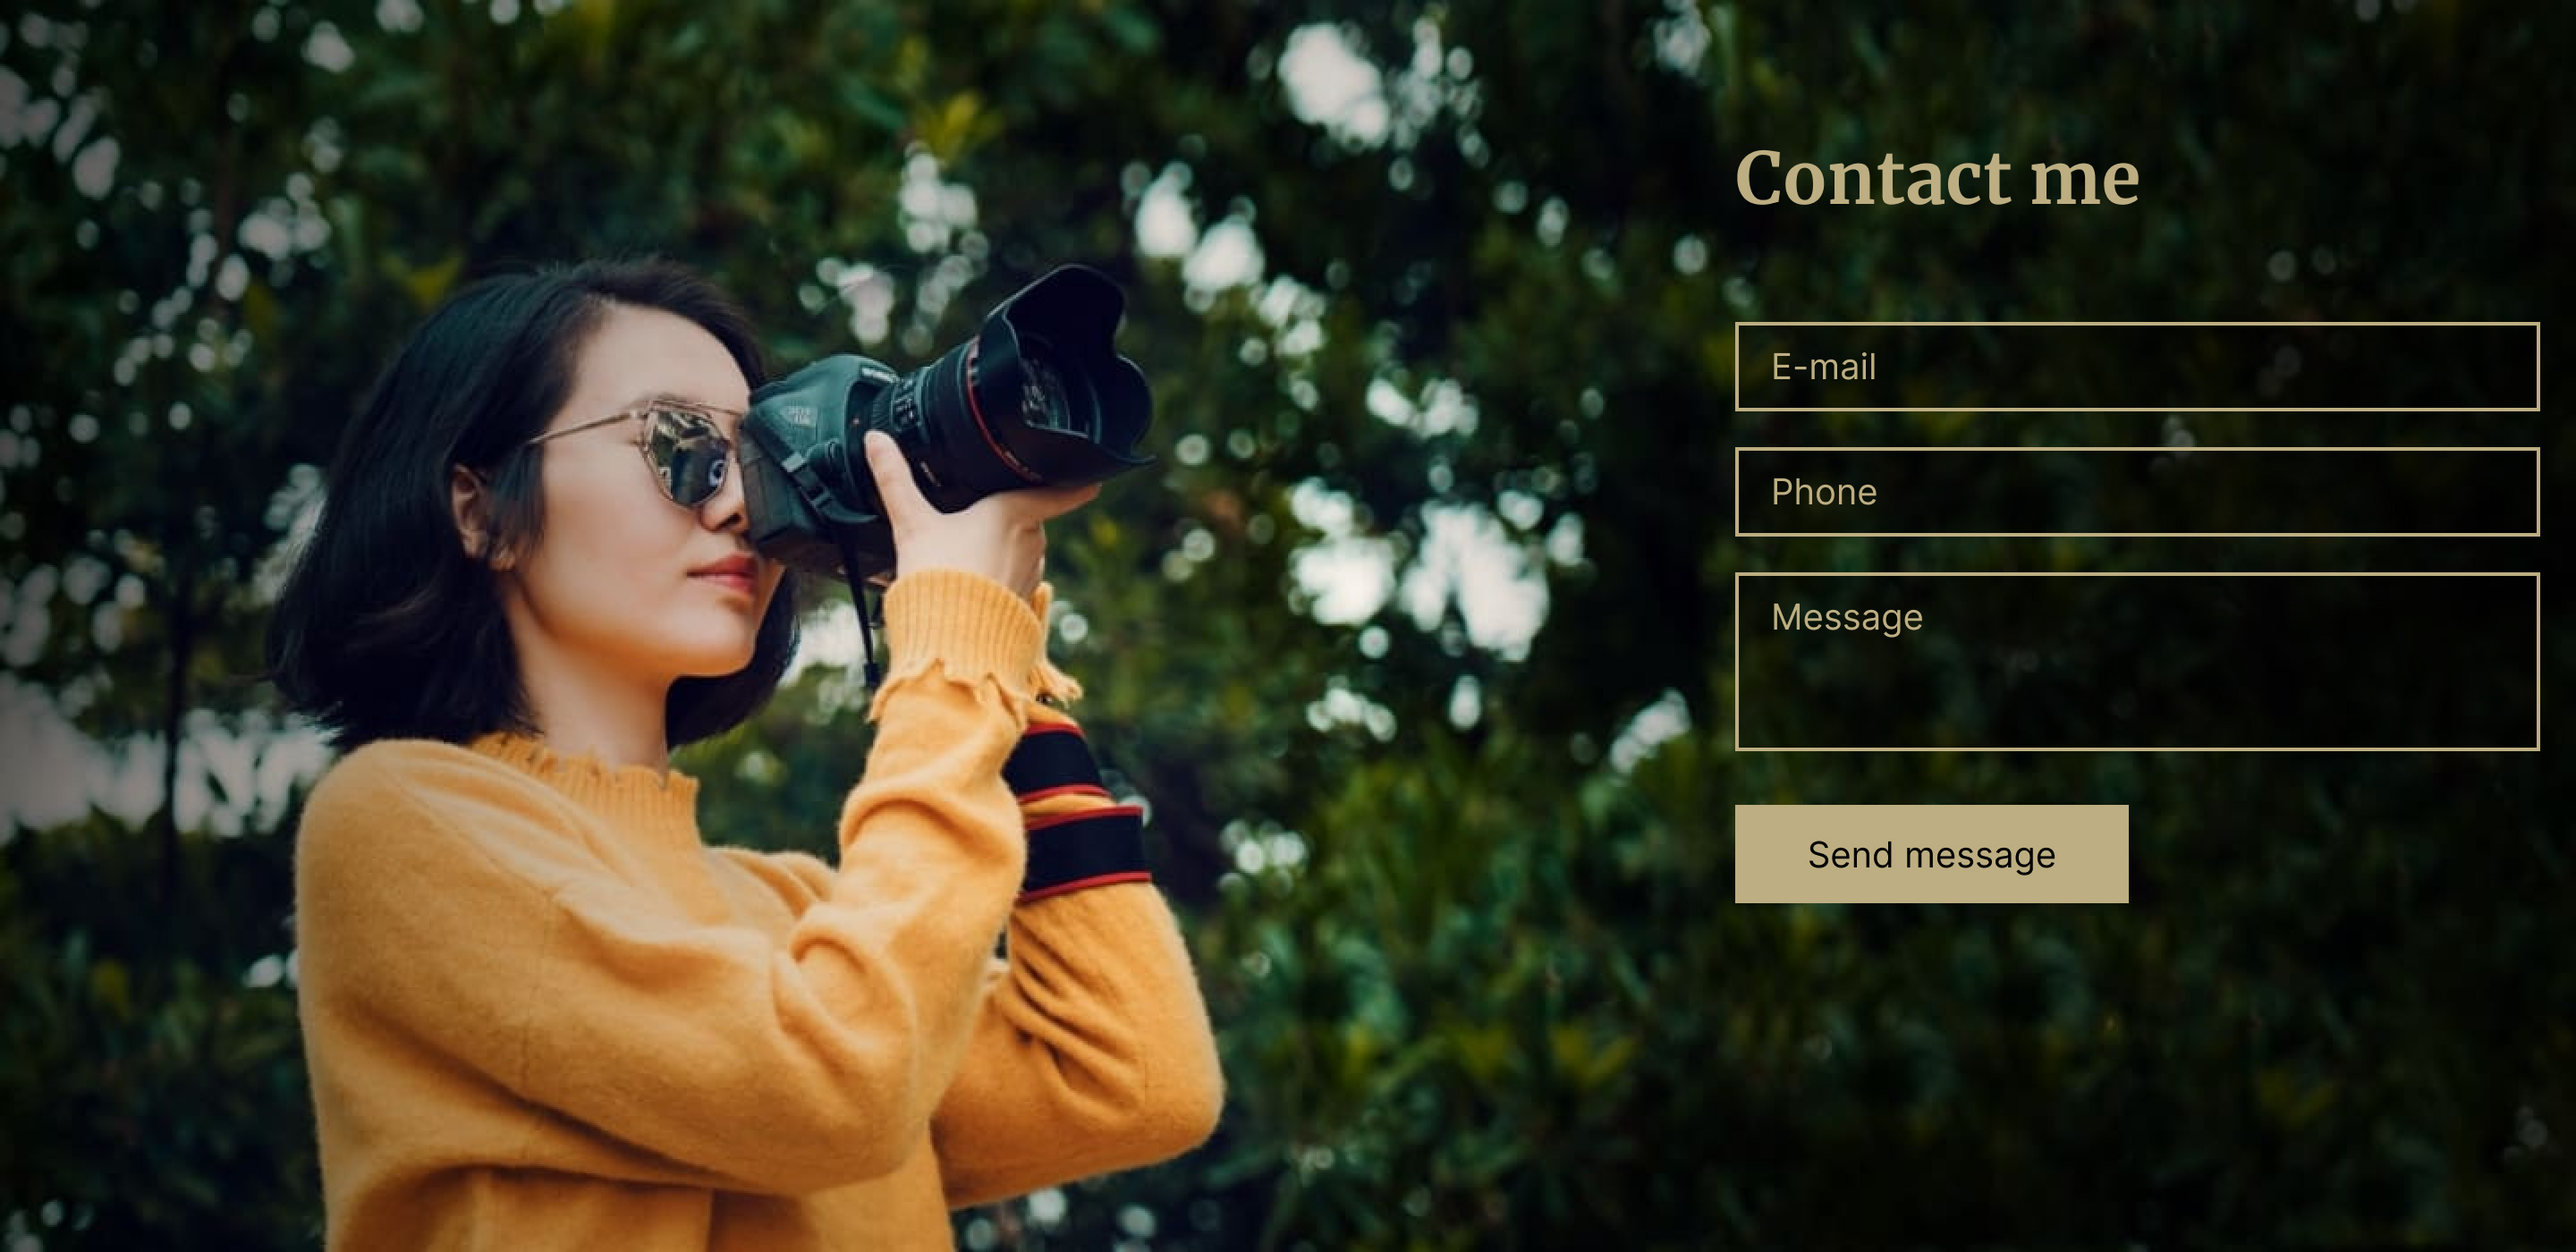
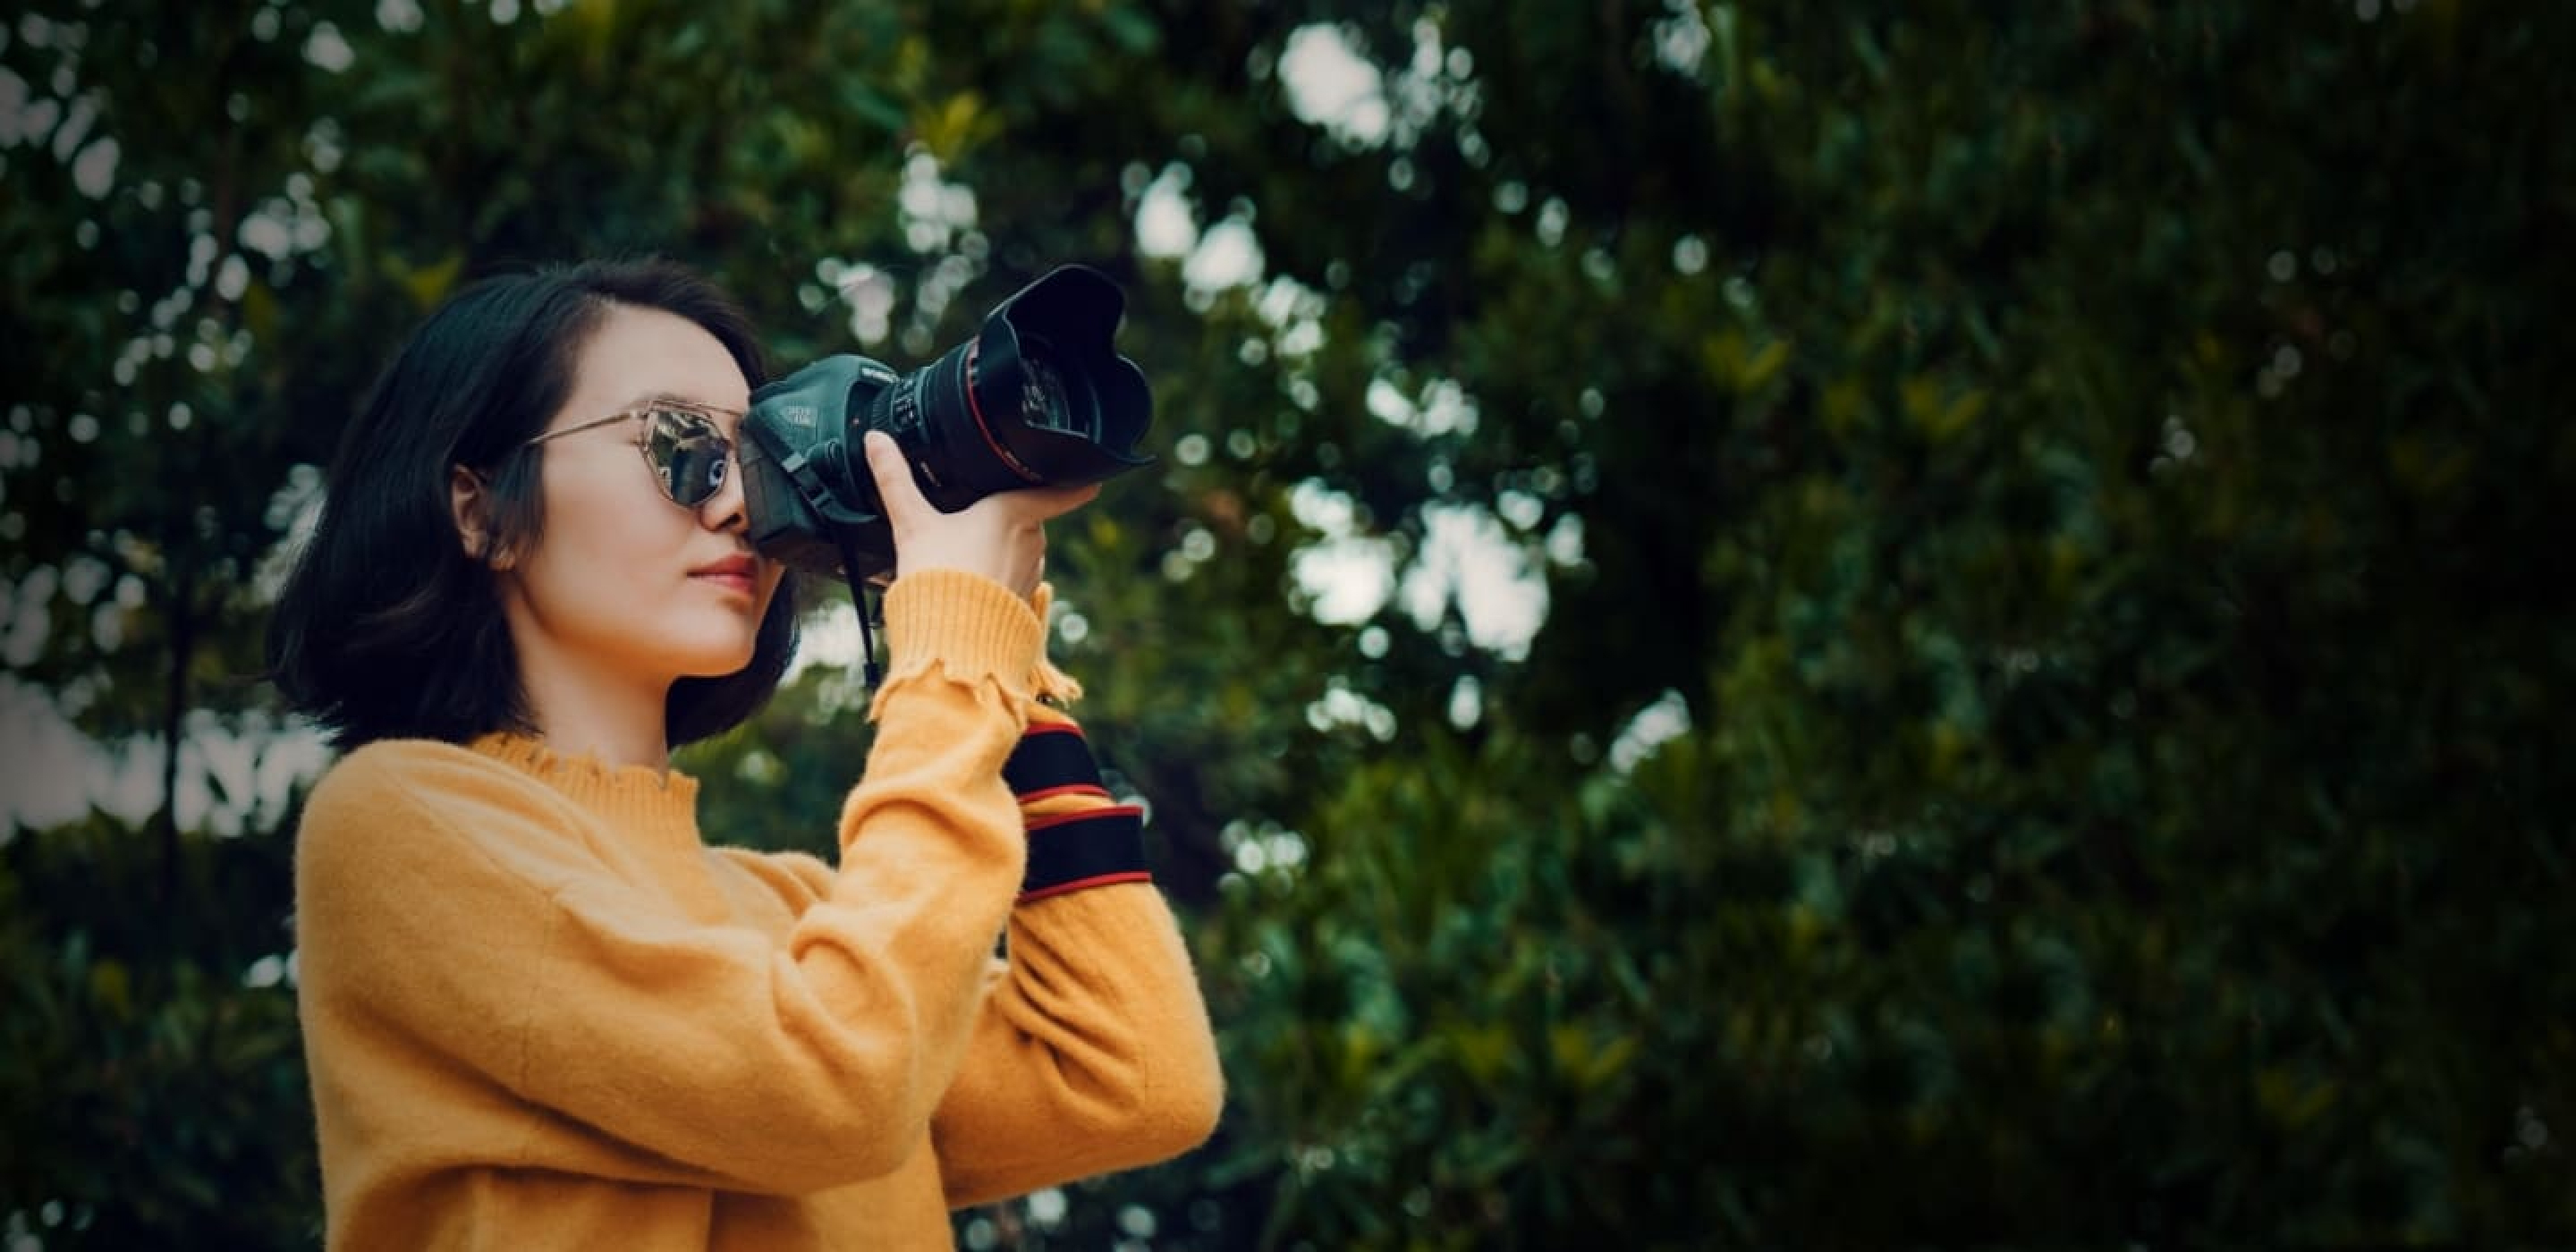
feat: add section contacts with styles

diff --git a/portfolio/css/style.css b/portfolio/css/style.css
@@ -66,7 +66,7 @@ h1, h2, h3, h4, h5, h6 {
 }
 
 /*---------------------------------------------------------------*/
-.video__body img, .portfolio__image img, .hero__image img, .hero__image {
+.contacts__image img, .contacts__image, .video__body img, .portfolio__image img, .hero__image img, .hero__image {
   position: absolute;
   top: 0;
   left: 0;
@@ -188,6 +188,7 @@ body {
   padding: 8px 72px 7px 73px;
   background-color: #beaf83;
   color: black;
+  font-size: 20px;
   min-height: 55px;
   border: none;
   transition: color 0.3s ease-in-out;
@@ -324,6 +325,7 @@ body {
   padding: 8px 72px 7px 73px;
   background-color: black;
   color: #beaf83;
+  font-size: 20px;
   min-height: 55px;
   border: 1px solid #beaf83;
   transition: color 0.3s ease-in-out;
@@ -339,6 +341,7 @@ body {
   padding: 8px 72px 7px 73px;
   background-color: #beaf83;
   color: black;
+  font-size: 20px;
   min-height: 55px;
   border: none;
   transition: color 0.3s ease-in-out;
@@ -464,11 +467,75 @@ body {
   padding: 8px 39px 7px;
   background-color: #beaf83;
   color: black;
+  font-size: 20px;
   min-height: 55px;
   border: none;
   transition: color 0.3s ease-in-out;
 }
 .item-price__button .button__gold:hover {
+  color: white;
+}
+
+/*-----Contacts-----*/
+.contacts {
+  position: relative;
+}
+.contacts__body {
+  position: relative;
+  z-index: 50;
+  display: flex;
+  padding: 60px 20px 195px 0;
+  flex-direction: column;
+  max-width: 450px;
+  margin-left: auto;
+}
+.contacts__title {
+  font-size: 40px;
+  line-height: 200%;
+  font-weight: 700;
+  font-family: Merriweather, serif;
+  color: #beaf83;
+  margin: 0 0 40px 0;
+}
+.contacts__item {
+  margin: 0 0 20px 0;
+  padding: 5px 20px;
+  color: #beaf83;
+  font-size: 20px;
+  display: flex;
+  min-height: 50px;
+  border: 1px solid #beaf83;
+  background-color: rgba(0, 0, 0, 0);
+}
+.contacts__item::placeholder {
+  font-family: inherit;
+  color: inherit;
+  font-size: inherit;
+}
+.contacts__image {
+  max-height: 910px;
+}
+.contacts__image img {
+  object-fit: cover;
+}
+
+.button {
+  display: flex;
+}
+.button .button__gold {
+  display: flex;
+  align-items: center;
+  justify-content: center;
+  align-content: center;
+  padding: 8px 39px 7px;
+  background-color: #beaf83;
+  color: black;
+  font-size: 20px;
+  min-height: 55px;
+  border: none;
+  transition: color 0.3s ease-in-out;
+}
+.button .button__gold:hover {
   color: white;
 }
 

diff --git a/portfolio/css/style.scss b/portfolio/css/style.scss
@@ -52,6 +52,7 @@ $btnDarkBorder: 1px solid $decorColor;
   padding: $padding;
   background-color: $btnBgColor;
   color: $btnTextColor;
+  font-size: $fontSizeLabel;
   min-height: 55px;
   border: $border;
   transition: color 0.3s ease-in-out;
@@ -105,7 +106,6 @@ $btnDarkBorder: 1px solid $decorColor;
   height: 100%;
 }
 /*---------------------------------------------------*/
-
 html,
 body {
   font-family: $fontFamily;
@@ -124,7 +124,7 @@ body {
 }
 ._container {
   max-width: $maxWidthContainer;
-  //padding: 0 15px;
+  //padding: 0 10px;
   margin: 0 auto;
 }
 
@@ -443,8 +443,77 @@ body {
 
     }
   }
+}
+/*-----Contacts-----*/
+.contacts {
+  position: relative;
+
+  &__container {}
+  &__body {
+    position: relative;
+    z-index: 50;
+    display: flex;
+    padding: 60px 20px 195px 0;
+    flex-direction: column;
+    max-width: 450px;
+    margin-left: auto;
+
+    //input:-webkit-autofill,
+    //input:-webkit-autofill:hover,
+    //input:-webkit-autofill:focus,
+    //input:-webkit-autofill:active {
+    //  -webkit-text-fill-color: #bdae82;
+    //  transition: background-color 0s ease-in-out 9000s;
+    //}
+
+  }
+  &__title {
+    font-size: 40px;
+    line-height: $lineHeight;
+    font-weight: 700;
+    font-family: $fontFamilyTitle;
+    color: $decorColor;
+    margin: 0 0 40px 0;
+  }
+  &__item {
+    margin: 0 0 20px 0;
+    padding: 5px 20px;
+    color: $decorColor;
+    font-size: $fontSizeLabel;
+    display: flex;
+    min-height: 50px;
+    border: 1px solid $decorColor;
+    background-color: rgba(0, 0, 0, 0);
+
+
+
+    &::placeholder {
+      font-family: inherit;
+      color: inherit;
+      font-size: inherit;
+    }
+  }
+
+  &__image {
+    @extend %img;
+    max-height: 910px;
+
+    img {
+      @extend %img;
+      object-fit: cover;
+    }
+  }
+}
+
+.button {
+  display: flex;
+  .button__gold {
+    @include button ($btnLightBgColor, $btnLightTextColor, none, 8px 39px 7px );
+  }
+}
+
+
+/*-----------FOOTER-----------*/
+.footer {
 
 }
-/*-----------FOOTER-----------*/
-
-.footer {}

diff --git a/portfolio/index.html b/portfolio/index.html
@@ -215,12 +215,31 @@
 								<div class="item-price__button button">
 									<a href = "#" class = "button__gold">Order shooting</a>
 								</div>
+							</div>
 						</div>
-						</div>
-				</div>
+					</div>
 				</div>
 			</section>
-			<section class="page__contacts contacts"></section>
+			<section class="page__contacts contacts">
+				<div class="contacts__container _container">
+
+					<div class="contacts__body">
+						<h2 class="contacts__title">Contact me</h2>
+						<input type = "email" id="email" class = "contacts__item item-email" placeholder="E-mail">
+						<input type = "tel" id="tel" class = "contacts__item item-tel" placeholder="Phone">
+						<textarea name = "text" id = "text" cols = "30" rows = "5" class =
+								"contacts__item item-text" placeholder="Message"></textarea>
+
+						<div class="contacts__button button">
+						<a href = "#" class = "button__gold">Send message</a>
+					</div>
+					</div>
+
+				</div>
+				<div class="contacts__image">
+					<img src = "assets/img/contacts/contacts_bg.jpg" alt = "background photo">
+				</div>
+			</section>
 		</main>
 		<footer class="footer"></footer>
 	</div>
